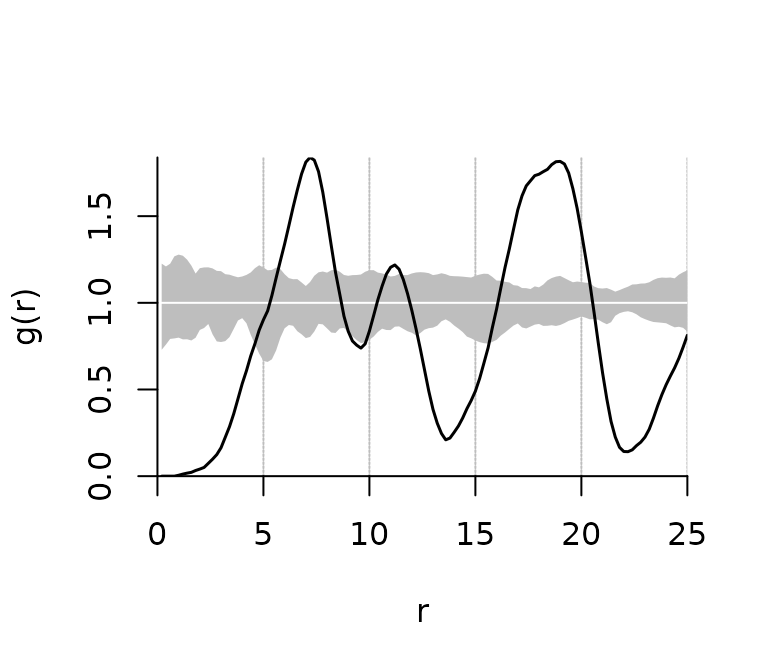
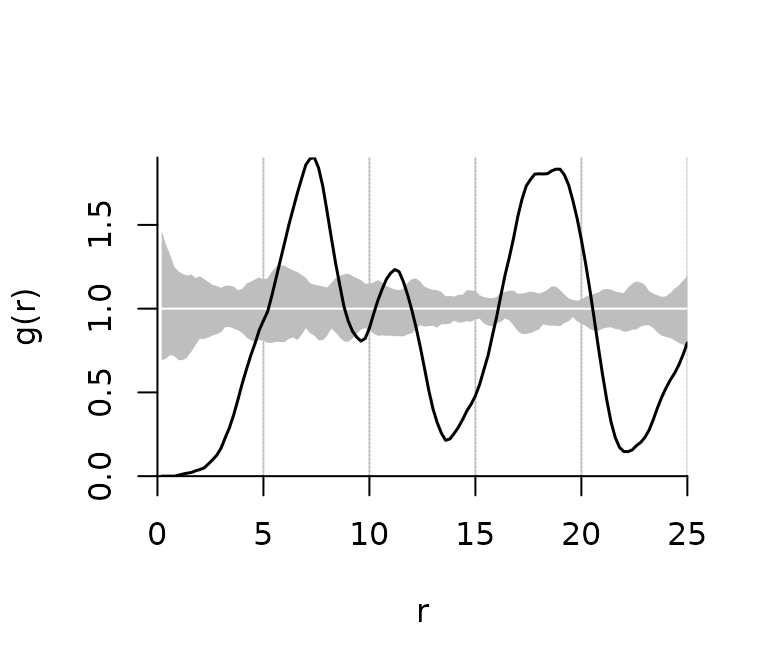
Built site for apcf: 0.1.7.903@01e30f8

diff --git a/reference/sim_patterns.html b/reference/sim_patterns.html
@@ -60,26 +60,25 @@ Function presented in Nuske et al. (2009).</p>
 
     <div class="section level2">
     <h2 id="ref-usage">Usage<a class="anchor" aria-label="anchor" href="#ref-usage"></a></h2>
-    <div class="sourceCode"><pre class="sourceCode r"><code><span class="va">sim_area_wkb</span>
+    <div class="sourceCode"><pre class="sourceCode r"><code><span class="va">sim_area</span>
 
-<span class="va">sim_pat_clust_wkb</span>
+<span class="va">sim_pat_clust</span>
 
-<span class="va">sim_pat_rand_wkb</span>
+<span class="va">sim_pat_rand</span>
 
-<span class="va">sim_pat_reg_wkb</span></code></pre></div>
+<span class="va">sim_pat_reg</span></code></pre></div>
     </div>
 
     <div class="section level2">
     <h2 id="format">Format<a class="anchor" aria-label="anchor" href="#format"></a></h2>
-    <p>A set of <a href="https://en.wikipedia.org/wiki/Shapefile" class="external-link">shapefiles</a> and
-<a href="https://en.wikipedia.org/wiki/Well-known_text_representation_of_geometry" class="external-link">WKB</a>
-containing the study area and three simulated patterns.</p>
-<table class="table table"><tr><td><strong>Dataset name</strong></td><td><strong>Shapefile</strong></td><td><strong>Description</strong></td></tr><tr><td><code>sim_area_wkb</code></td><td><code>sim_area.*</code></td><td>study area</td></tr><tr><td><code>sim_pat_reg_wkb</code></td><td><code>sim_pat_reg.*</code></td><td>simulated regular pattern</td></tr><tr><td><code>sim_pat_rand_wkb</code></td><td><code>sim_pat_rand.*</code></td><td>simulated random pattern</td></tr><tr><td><code>sim_pat_clust_wkb</code></td><td><code>sim_pat_clust.*</code></td><td>simulated clustered pattern</td></tr></table><p>The study area is a square of 100 m x 100 m. A set of n = 100 objects were
+    <p>A set of <a href="https://en.wikipedia.org/wiki/Well-known_text_representation_of_geometry" class="external-link">WKBs</a>
+of class <code><a href="https://paleolimbot.github.io/wk/reference/new_wk_wkb.html" class="external-link">wk_wkb</a></code> containing the study area and three simulated patterns.</p>
+<table class="table table"><tr><td><strong>Dataset name</strong></td><td><strong>Description</strong></td><td><code>sim_area</code></td></tr><tr><td>study area</td><td><code>sim_pat_reg</code></td><td>simulated regular pattern</td></tr><tr><td><code>sim_pat_rand</code></td><td>simulated random pattern</td><td><code>sim_pat_clust</code></td></tr></table><p>The study area is a square of 100 m x 100 m. A set of n = 100 objects were
 created and latter placed according to the designated spatial distribution.
 The size distribution and shapes of the objects are inspired by measurements
 of canopy gaps. The areas of the objects range from 1.6 m2 to 57.7 m2 with
 an arithmetic mean of 9.7 m2 and a median of 5.5 m2. The total area of all
-objects is 969.7 m2, meaning 9.7\<!-- % of the study area is covered by objects. --></p>
+objects is 969.7 m2, meaning 9.7% of the study area is covered by objects.</p>
 <p>For the <code>sim_pat_reg</code> dataset, the objects were arranged in a strict
 regular manner. A centric systematic grid was constructed, and the objects
 of the set were then randomly rotated and randomly placed by locating the
@@ -98,9 +97,6 @@ Matern’s cluster process with w = 0.0006 m^-2 or 6 cluster centres per ha,
 a dispersion radius of R = 10 m and on average y = 16.6 points per cluster.</p>
 <p>We used the R-package spatstat (Baddeley et al. 2015) for simulating
 the Binomial process and Matern’s cluster process.</p>
-<p>An object of class <code>WKB</code> of length 100.</p>
-<p>An object of class <code>WKB</code> of length 100.</p>
-<p>An object of class <code>WKB</code> of length 100.</p>
     </div>
     <div class="section level2">
     <h2 id="source">Source<a class="anchor" aria-label="anchor" href="#source"></a></h2>
@@ -119,8 +115,7 @@ https://doi.org/10.1016/j.foreco.2009.09.050</p>
 
     <div class="section level2">
     <h2 id="ref-examples">Examples<a class="anchor" aria-label="anchor" href="#ref-examples"></a></h2>
-    <div class="sourceCode"><pre class="sourceCode r"><code><span class="r-in"><span class="va">ds</span> <span class="op">&lt;-</span> <span class="fu"><a href="pat2dists.html">pat2dists</a></span><span class="op">(</span>area<span class="op">=</span><span class="va">sim_area_wkb</span>, pattern<span class="op">=</span><span class="va">sim_pat_reg_wkb</span>,</span>
-<span class="r-in">                max_dist<span class="op">=</span><span class="fl">25</span>, n_sim<span class="op">=</span><span class="fl">3</span><span class="op">)</span></span>
+    <div class="sourceCode"><pre class="sourceCode r"><code><span class="r-in"><span class="va">ds</span> <span class="op">&lt;-</span> <span class="fu"><a href="pat2dists.html">pat2dists</a></span><span class="op">(</span>area<span class="op">=</span><span class="va">sim_area</span>, pattern<span class="op">=</span><span class="va">sim_pat_reg</span>, max_dist<span class="op">=</span><span class="fl">25</span>, n_sim<span class="op">=</span><span class="fl">3</span><span class="op">)</span></span>
 <span class="r-in"></span>
 </code></pre></div>
     </div>

diff --git a/articles/intro.html b/articles/intro.html
@@ -107,16 +107,16 @@
 <p>It returns an object of class <code>dists</code> containing a data.frame with the columns <code>sim</code>, <code>dist</code>, and <code>prop</code> with an indicator of the model run (<code>0:n_sim</code>), distances between the objects of the patterns, and the proportion of a buffer with distance dist inside the study area. The size of the study area, the total number of objects, and the maximum distance are passed along as well.</p>
 <div class="sourceCode" id="cb1"><pre class="downlit sourceCode r">
 <code class="sourceCode R"><span class="co"># it's advised against setting n_sim &lt; 199</span>
-<span class="va">dists</span> <span class="op">&lt;-</span> <span class="fu"><a href="../reference/pat2dists.html">pat2dists</a></span><span class="op">(</span>area<span class="op">=</span><span class="va">sim_area_wkb</span>, pattern<span class="op">=</span><span class="va">sim_pat_reg_wkb</span>,
+<span class="va">dists</span> <span class="op">&lt;-</span> <span class="fu"><a href="../reference/pat2dists.html">pat2dists</a></span><span class="op">(</span>area<span class="op">=</span><span class="va">sim_area</span>, pattern<span class="op">=</span><span class="va">sim_pat_reg</span>, 
                    max_dist<span class="op">=</span><span class="fl">25</span>, n_sim<span class="op">=</span><span class="fl">9</span>, verbose<span class="op">=</span><span class="cn">FALSE</span><span class="op">)</span>
 <span class="fu"><a href="https://rdrr.io/r/utils/head.html" class="external-link">head</a></span><span class="op">(</span><span class="va">dists</span><span class="op">)</span>
 <span class="co">##   sim     dist     ratio</span>
-<span class="co">## 1   0 24.65000 0.9238066</span>
-<span class="co">## 2   0 17.15157 1.0000000</span>
-<span class="co">## 3   0 20.22589 1.0000000</span>
+<span class="co">## 1   0 24.64786 0.9239901</span>
+<span class="co">## 2   0 17.15450 1.0000000</span>
+<span class="co">## 3   0 20.22583 1.0000000</span>
 <span class="co">## 4   0 20.04445 1.0000000</span>
-<span class="co">## 5   0 24.13877 0.9517043</span>
-<span class="co">## 6   0 19.67296 1.0000000</span></code></pre></div>
+<span class="co">## 5   0 24.13972 0.9517079</span>
+<span class="co">## 6   0 19.67695 1.0000000</span></code></pre></div>
 </div>
 <div class="section level2">
 <h2 id="from-distances-to-pcf">From Distances to PCF<a class="anchor" aria-label="anchor" href="#from-distances-to-pcf"></a>
@@ -133,12 +133,12 @@
 <span class="co">## Significance level of pointwise Monte Carlo test: 0.2</span>
 <span class="co">## </span>
 <span class="co">##     r           g       lwr      upr</span>
-<span class="co">## 1 0.2 0.000000000 0.7290457 1.226126</span>
-<span class="co">## 2 0.4 0.000000000 0.7588772 1.209802</span>
-<span class="co">## 3 0.6 0.000000000 0.7917958 1.225692</span>
-<span class="co">## 4 0.8 0.000000000 0.7947108 1.268356</span>
-<span class="co">## 5 1.0 0.005169545 0.7991125 1.278168</span>
-<span class="co">## 6 1.2 0.011976260 0.7890086 1.271738</span></code></pre></div>
+<span class="co">## 1 0.2 0.000000000 0.6923856 1.465033</span>
+<span class="co">## 2 0.4 0.000000000 0.7000570 1.382960</span>
+<span class="co">## 3 0.6 0.000000000 0.7228227 1.321355</span>
+<span class="co">## 4 0.8 0.000000000 0.7166693 1.248035</span>
+<span class="co">## 5 1.0 0.005704008 0.6927367 1.222244</span>
+<span class="co">## 6 1.2 0.012655955 0.6924349 1.206356</span></code></pre></div>
 </div>
 <div class="section level2">
 <h2 id="plotting-the-pcf">Plotting the PCF<a class="anchor" aria-label="anchor" href="#plotting-the-pcf"></a>

diff --git a/reference/pat2dists.html b/reference/pat2dists.html
@@ -131,12 +131,11 @@ https://doi.org/10.1016/j.foreco.2009.09.050</p>
     <div class="section level2">
     <h2 id="ref-examples">Examples<a class="anchor" aria-label="anchor" href="#ref-examples"></a></h2>
     <div class="sourceCode"><pre class="sourceCode r"><code><span class="r-in"><span class="co"># it's advised against setting n_sim &lt; 199</span></span>
-<span class="r-in"><span class="va">ds</span> <span class="op">&lt;-</span> <span class="fu">pat2dists</span><span class="op">(</span>area<span class="op">=</span><span class="va">sim_area_wkb</span>, pattern<span class="op">=</span><span class="va">sim_pat_reg_wkb</span>,</span>
-<span class="r-in">                max_dist<span class="op">=</span><span class="fl">25</span>, n_sim<span class="op">=</span><span class="fl">3</span><span class="op">)</span></span>
+<span class="r-in"><span class="va">ds</span> <span class="op">&lt;-</span> <span class="fu">pat2dists</span><span class="op">(</span>area<span class="op">=</span><span class="va">sim_area</span>, pattern<span class="op">=</span><span class="va">sim_pat_reg</span>, max_dist<span class="op">=</span><span class="fl">25</span>, n_sim<span class="op">=</span><span class="fl">3</span><span class="op">)</span></span>
 <span class="r-in"></span>
 <span class="r-in"><span class="co"># verbose and returns one randomized pattern for debugging</span></span>
-<span class="r-in"><span class="va">ds_plus</span> <span class="op">&lt;-</span> <span class="fu">pat2dists</span><span class="op">(</span>area<span class="op">=</span><span class="va">sim_area_wkb</span>, pattern<span class="op">=</span><span class="va">sim_pat_reg_wkb</span>,</span>
-<span class="r-in">                     max_dist<span class="op">=</span><span class="fl">5</span>, n_sim<span class="op">=</span><span class="fl">3</span>, verbose<span class="op">=</span><span class="cn">TRUE</span>, save_pattern<span class="op">=</span><span class="cn">TRUE</span><span class="op">)</span></span>
+<span class="r-in"><span class="va">ds_plus</span> <span class="op">&lt;-</span> <span class="fu">pat2dists</span><span class="op">(</span>area<span class="op">=</span><span class="va">sim_area</span>, pattern<span class="op">=</span><span class="va">sim_pat_reg</span>, max_dist<span class="op">=</span><span class="fl">5</span>, n_sim<span class="op">=</span><span class="fl">3</span>,</span>
+<span class="r-in">                     verbose<span class="op">=</span><span class="cn">TRUE</span>, save_pattern<span class="op">=</span><span class="cn">TRUE</span><span class="op">)</span></span>
 <span class="r-out co"><span class="r-pr">#&gt;</span> dists: e</span>
 <span class="r-in"></span>
 <span class="r-in"><span class="kw">if</span> <span class="op">(</span><span class="cn">FALSE</span><span class="op">)</span> <span class="op">{</span></span>

diff --git a/reference/plot.fv_pcf.html b/reference/plot.fv_pcf.html
@@ -119,8 +119,7 @@ drawn about the plotting region, see <code><a href="https://rdrr.io/r/graphics/p
     <div class="section level2">
     <h2 id="ref-examples">Examples<a class="anchor" aria-label="anchor" href="#ref-examples"></a></h2>
     <div class="sourceCode"><pre class="sourceCode r"><code><span class="r-in"><span class="co"># it's advised against setting n_sim &lt; 199</span></span>
-<span class="r-in"><span class="va">ds</span> <span class="op">&lt;-</span> <span class="fu"><a href="pat2dists.html">pat2dists</a></span><span class="op">(</span>area<span class="op">=</span><span class="va">sim_area_wkb</span>, pattern<span class="op">=</span><span class="va">sim_pat_reg_wkb</span>,</span>
-<span class="r-in">                max_dist<span class="op">=</span><span class="fl">25</span>, n_sim<span class="op">=</span><span class="fl">3</span><span class="op">)</span></span>
+<span class="r-in"><span class="va">ds</span> <span class="op">&lt;-</span> <span class="fu"><a href="pat2dists.html">pat2dists</a></span><span class="op">(</span>area<span class="op">=</span><span class="va">sim_area</span>, pattern<span class="op">=</span><span class="va">sim_pat_reg</span>, max_dist<span class="op">=</span><span class="fl">25</span>, n_sim<span class="op">=</span><span class="fl">3</span><span class="op">)</span></span>
 <span class="r-in"></span>
 <span class="r-in"><span class="co"># derive PCF and envelope</span></span>
 <span class="r-in"><span class="va">pcf</span> <span class="op">&lt;-</span> <span class="fu"><a href="dists2pcf.html">dists2pcf</a></span><span class="op">(</span><span class="va">ds</span>, r<span class="op">=</span><span class="fl">0.2</span>, r_max<span class="op">=</span><span class="fl">25</span>, stoyan<span class="op">=</span><span class="fl">0.15</span>, n_rank<span class="op">=</span><span class="fl">1</span><span class="op">)</span></span>

diff --git a/reference/dists2pcf.html b/reference/dists2pcf.html
@@ -148,8 +148,7 @@ Methods of geometrical statistics. John Wiley &amp; Sons, Chichester.</p>
     <div class="section level2">
     <h2 id="ref-examples">Examples<a class="anchor" aria-label="anchor" href="#ref-examples"></a></h2>
     <div class="sourceCode"><pre class="sourceCode r"><code><span class="r-in"><span class="co"># it's advised against setting n_sim &lt; 199</span></span>
-<span class="r-in"><span class="va">ds</span> <span class="op">&lt;-</span> <span class="fu"><a href="pat2dists.html">pat2dists</a></span><span class="op">(</span>area<span class="op">=</span><span class="va">sim_area_wkb</span>, pattern<span class="op">=</span><span class="va">sim_pat_reg_wkb</span>,</span>
-<span class="r-in">                max_dist<span class="op">=</span><span class="fl">25</span>, n_sim<span class="op">=</span><span class="fl">3</span><span class="op">)</span></span>
+<span class="r-in"><span class="va">ds</span> <span class="op">&lt;-</span> <span class="fu"><a href="pat2dists.html">pat2dists</a></span><span class="op">(</span>area<span class="op">=</span><span class="va">sim_area</span>, pattern<span class="op">=</span><span class="va">sim_pat_reg</span>, max_dist<span class="op">=</span><span class="fl">25</span>, n_sim<span class="op">=</span><span class="fl">3</span><span class="op">)</span></span>
 <span class="r-in"></span>
 <span class="r-in"><span class="co"># derive PCF and envelope</span></span>
 <span class="r-in"><span class="va">pcf</span> <span class="op">&lt;-</span> <span class="fu">dists2pcf</span><span class="op">(</span><span class="va">ds</span>, r<span class="op">=</span><span class="fl">0.2</span>, r_max<span class="op">=</span><span class="fl">25</span>, stoyan<span class="op">=</span><span class="fl">0.15</span>, n_rank<span class="op">=</span><span class="fl">1</span><span class="op">)</span></span>

diff --git a/index.html b/index.html
@@ -106,8 +106,7 @@
 <div class="sourceCode" id="cb3"><pre class="downlit sourceCode r">
 <code class="sourceCode R"><span class="co"># calculate distances between patches of original pattern and 3 nullmodels</span>
 <span class="co"># number of nullmodels should by at least 199 and better yet 999</span>
-<span class="va">ds</span> <span class="op">&lt;-</span> <span class="fu"><a href="reference/pat2dists.html">pat2dists</a></span><span class="op">(</span>area<span class="op">=</span><span class="va">sim_area_wkb</span>, pattern<span class="op">=</span><span class="va">sim_pat_reg_wkb</span>,
-                max_dist<span class="op">=</span><span class="fl">25</span>, n_sim<span class="op">=</span><span class="fl">3</span><span class="op">)</span>
+<span class="va">ds</span> <span class="op">&lt;-</span> <span class="fu"><a href="reference/pat2dists.html">pat2dists</a></span><span class="op">(</span>area<span class="op">=</span><span class="va">sim_area</span>, pattern<span class="op">=</span><span class="va">sim_pat_reg</span>, max_dist<span class="op">=</span><span class="fl">25</span>, n_sim<span class="op">=</span><span class="fl">3</span><span class="op">)</span>
 
 <span class="co"># derive PCF and envelope from distances</span>
 <span class="va">pcf</span> <span class="op">&lt;-</span> <span class="fu"><a href="reference/dists2pcf.html">dists2pcf</a></span><span class="op">(</span><span class="va">ds</span>, r<span class="op">=</span><span class="fl">0.2</span>, r_max<span class="op">=</span><span class="fl">25</span>, stoyan<span class="op">=</span><span class="fl">0.15</span>, n_rank<span class="op">=</span><span class="fl">1</span><span class="op">)</span>

diff --git a/reference/index.html b/reference/index.html
@@ -92,7 +92,7 @@
         <dd>Plot PCF</dd>
       </dl><dl><dt>
           
-          <code><a href="sim_patterns.html">sim_area_wkb</a></code> <code><a href="sim_patterns.html">sim_pat_clust_wkb</a></code> <code><a href="sim_patterns.html">sim_pat_rand_wkb</a></code> <code><a href="sim_patterns.html">sim_pat_reg_wkb</a></code> 
+          <code><a href="sim_patterns.html">sim_area</a></code> <code><a href="sim_patterns.html">sim_pat_clust</a></code> <code><a href="sim_patterns.html">sim_pat_rand</a></code> <code><a href="sim_patterns.html">sim_pat_reg</a></code> 
         </dt>
         <dd>Simulated Patterns (sample data)</dd>
       </dl></div>
